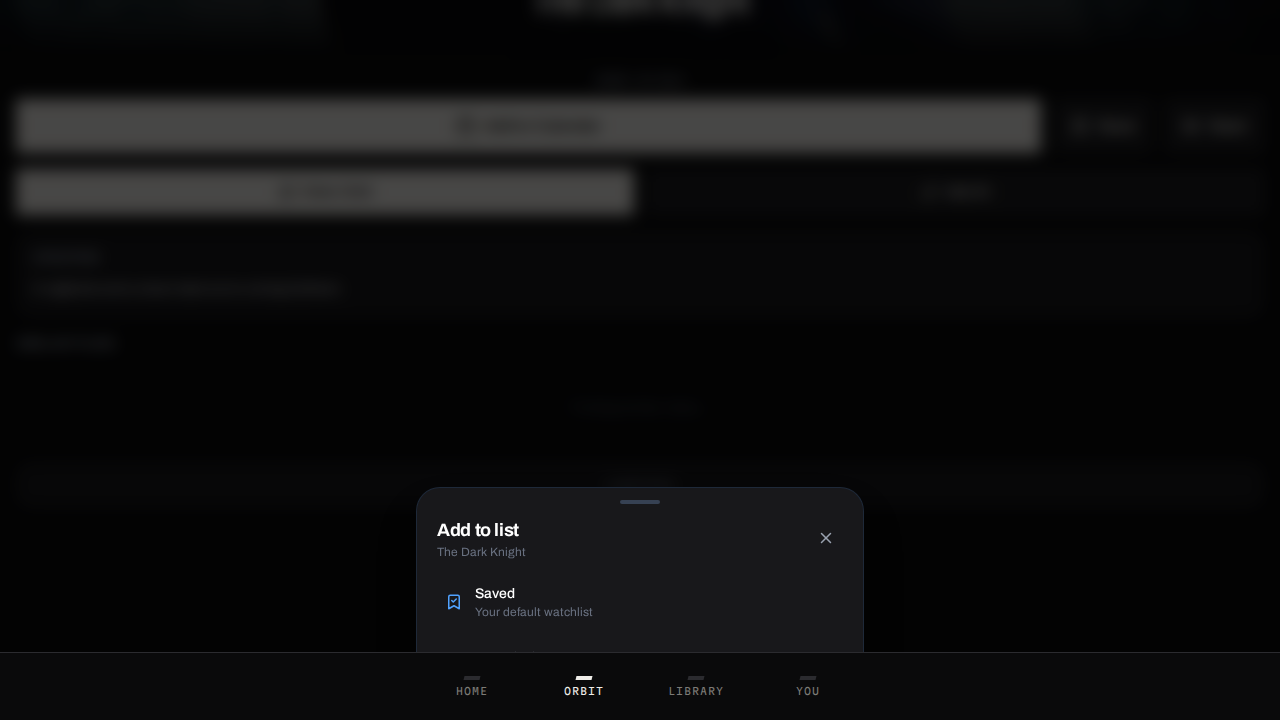
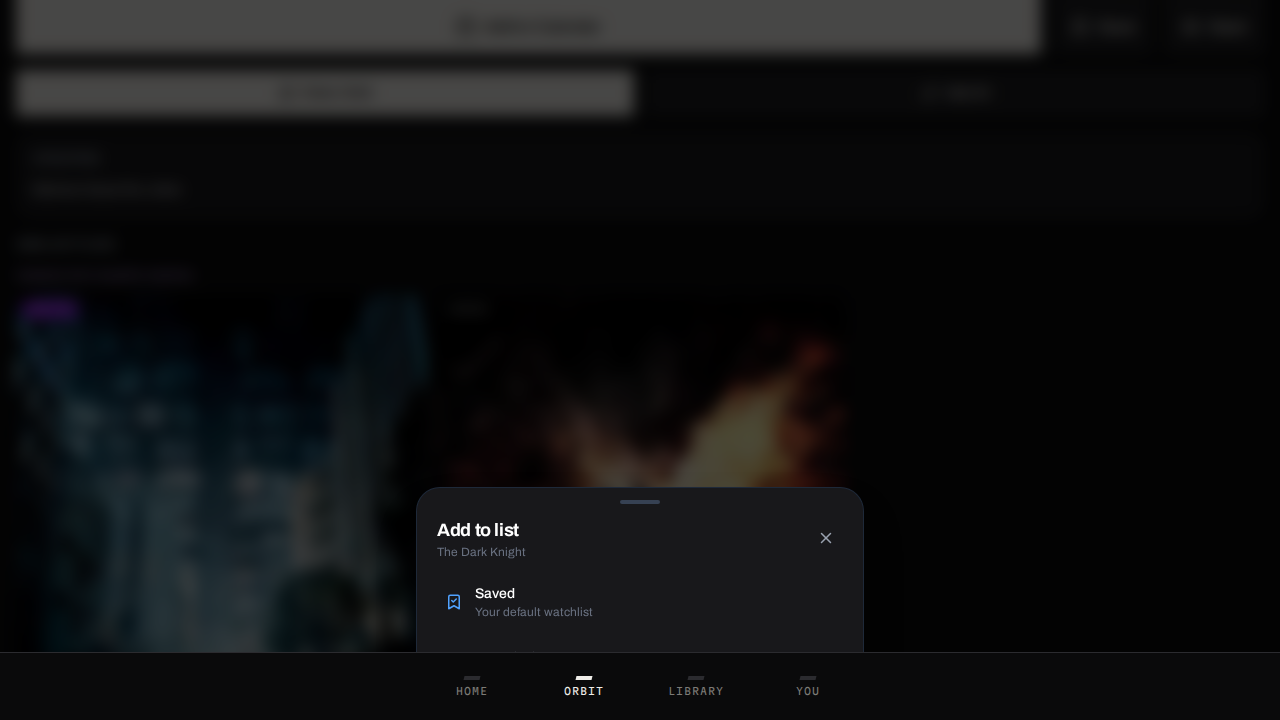
fix(similar): serve scholar adjacency from movie-lookup
A new api/similar-adjacency file exceeded the Hobby 12-function cap. POST /api/movie-lookup now returns cinephile neighbors.

diff --git a/api/movie-lookup.ts b/api/movie-lookup.ts
@@ -1,4 +1,8 @@
 import type { VercelRequest, VercelResponse } from '@vercel/node';
+import { callXai, extractJSON } from './_lib/xai.js';
+import { parseNeighbors } from '../src/lib/similar/parseNeighbors.js';
+import { parseSimilarAdjacencyRequest } from '../src/lib/similar/parseRequest.js';
+import type { FilmNeighbor } from '../src/lib/similar/types.js';
 
 const TMDB_BASE = 'https://api.themoviedb.org/3';
 
@@ -7,16 +11,95 @@ function tmdbImage(path: string | undefined, size: 'w500' | 'w780') {
   return `https://image.tmdb.org/t/p/${size}${path}`;
 }
 
-export default async function handler(req: VercelRequest, res: VercelResponse) {
-  res.setHeader('Access-Control-Allow-Origin', '*');
-  res.setHeader('Access-Control-Allow-Methods', 'GET, OPTIONS');
-  if (req.method === 'OPTIONS') return res.status(200).end();
-  if (req.method !== 'GET') return res.status(405).json({ error: 'Method not allowed' });
+function tmdbKey(): string {
+  return process.env.TMDB_API_KEY || process.env.VITE_TMDB_API_KEY || '';
+}
 
+async function tmdbMovie(id: number, key: string): Promise<{ poster_path?: string | null; title?: string; release_date?: string } | null> {
+  const res = await fetch(`${TMDB_BASE}/movie/${id}?api_key=${key}&language=en-US`);
+  if (!res.ok) return null;
+  return res.json();
+}
+
+async function tmdbSearch(title: string, year: string, key: string): Promise<number | null> {
+  const url = new URL(`${TMDB_BASE}/search/movie`);
+  url.searchParams.set('api_key', key);
+  url.searchParams.set('query', title);
+  if (year) url.searchParams.set('year', year);
+  const res = await fetch(url.toString());
+  if (!res.ok) return null;
+  const data = await res.json();
+  const id = data.results?.[0]?.id;
+  return typeof id === 'number' ? id : null;
+}
+
+async function hydrateNeighbors(
+  neighbors: FilmNeighbor[],
+  key: string,
+  excludeId: number,
+): Promise<FilmNeighbor[]> {
+  const out: FilmNeighbor[] = [];
+  const seen = new Set<number>([excludeId]);
+  for (const row of neighbors) {
+    let movieId = row.movieId;
+    if (!movieId && row.title && key) {
+      movieId = (await tmdbSearch(row.title, row.year, key)) ?? 0;
+    }
+    if (!movieId || seen.has(movieId)) continue;
+    seen.add(movieId);
+    let posterPath = row.posterPath;
+    let title = row.title;
+    let year = row.year;
+    if (key && (!posterPath || !title)) {
+      const details = await tmdbMovie(movieId, key);
+      if (details) {
+        posterPath = posterPath || details.poster_path || null;
+        title = title || details.title || title;
+        year = year || details.release_date?.slice(0, 4) || year;
+      }
+    }
+    out.push({ ...row, movieId, title, year, posterPath, source: 'scholar' });
+  }
+  return out;
+}
+
+async function handleAdjacency(req: VercelRequest, res: VercelResponse) {
+  const request = parseSimilarAdjacencyRequest(req.body);
+  if (!request) return res.status(400).json({ error: 'movieId and title are required', neighbors: [] });
+  try {
+    const text = await callXai({
+      system:
+        'You are a film scholar. Recommend films with deep craft connections. Output JSON only. Never invent TMDB ids. If you are unsure of an id, omit movieId.',
+      maxTokens: 900,
+      reasoningEffort: 'low',
+      messages: [
+        {
+          role: 'user',
+          content: `Recommend 16 films adjacent to "${request.title}" (${request.year}). Genres: ${request.genres.join(', ') || 'unknown'}. TMDB id of the reference: ${request.movieId}.
+
+Do not include the reference film.
+Each item needs title, year, movieId (TMDB), reason (film-to-film, under 12 words), axes (subset of story, visual, mood).
+
+Return ONLY JSON:
+{"neighbors":[{"movieId":27205,"title":"Inception","year":"2010","reason":"Nested heist architecture","axes":["story"]}]}`,
+        },
+      ],
+    });
+    const raw = parseNeighbors(extractJSON(text) ?? text);
+    const neighbors = await hydrateNeighbors(raw, tmdbKey(), request.movieId);
+    return res.status(200).json({ neighbors, source: 'grok' });
+  } catch (err: unknown) {
+    const message = err instanceof Error ? err.message : 'adjacency failed';
+    console.error('similar-adjacency failed:', err);
+    return res.status(500).json({ error: message, neighbors: [] });
+  }
+}
+
+async function handleLookup(req: VercelRequest, res: VercelResponse) {
   const title = String(req.query.title || '').trim();
   const year = String(req.query.year || '').trim();
   const id = Number(req.query.id);
-  const key = process.env.TMDB_API_KEY || process.env.VITE_TMDB_API_KEY;
+  const key = tmdbKey();
   if (!key || key.includes('your_tmdb')) {
     return res.status(400).json({ error: 'unavailable' });
   }
@@ -92,4 +175,14 @@ export default async function handler(req: VercelRequest, res: VercelResponse) {
   } catch {
     return res.status(500).json({ error: 'failed' });
   }
+}
+
+export default async function handler(req: VercelRequest, res: VercelResponse) {
+  res.setHeader('Access-Control-Allow-Origin', '*');
+  res.setHeader('Access-Control-Allow-Methods', 'GET, POST, OPTIONS');
+  res.setHeader('Access-Control-Allow-Headers', 'Content-Type');
+  if (req.method === 'OPTIONS') return res.status(200).end();
+  if (req.method === 'POST') return handleAdjacency(req, res);
+  if (req.method === 'GET') return handleLookup(req, res);
+  return res.status(405).json({ error: 'Method not allowed' });
 }

diff --git a/src/lib/similar/parseRequest.ts b/src/lib/similar/parseRequest.ts
@@ -1,0 +1,19 @@
+export type SimilarAdjacencyRequest = {
+  movieId: number;
+  title: string;
+  year: string;
+  genres: string[];
+};
+
+export function parseSimilarAdjacencyRequest(body: unknown): SimilarAdjacencyRequest | null {
+  if (!body || typeof body !== 'object') return null;
+  const row = body as Record<string, unknown>;
+  const movieId = Number(row.movieId ?? row.id);
+  const title = typeof row.title === 'string' ? row.title.trim() : '';
+  if (!Number.isFinite(movieId) || movieId <= 0 || !title) return null;
+  const year = typeof row.year === 'string' || typeof row.year === 'number' ? String(row.year) : '';
+  const genres = Array.isArray(row.genres)
+    ? row.genres.filter((g): g is string => typeof g === 'string' && g.trim().length > 0)
+    : [];
+  return { movieId, title, year, genres };
+}

diff --git a/e2e/flows.spec.ts b/e2e/flows.spec.ts
@@ -243,7 +243,8 @@ test('F12 Share', async ({ page }, testInfo) => {
 test('F13 Movie detail chrome', async ({ page }, testInfo) => {
   const logs = await attachPageLog(page);
   await ensureAuthed(page);
-  await page.route('**/api/similar-adjacency', async (route) => {
+  await page.route('**/api/movie-lookup', async (route) => {
+    if (route.request().method() !== 'POST') return route.continue();
     await new Promise((r) => setTimeout(r, 500));
     await route.fulfill({
       status: 200,

diff --git a/src/lib/similar/prefetch.ts b/src/lib/similar/prefetch.ts
@@ -8,7 +8,7 @@ export async function fetchScholarNeighbors(input: {
   year: string;
   genres?: string[];
 }): Promise<FilmNeighbor[]> {
-  const res = await fetch('/api/similar-adjacency', {
+  const res = await fetch('/api/movie-lookup', {
     method: 'POST',
     headers: { 'Content-Type': 'application/json' },
     body: JSON.stringify({

diff --git a/src/lib/similar/parseRequest.test.ts b/src/lib/similar/parseRequest.test.ts
@@ -1,5 +1,5 @@
 import { describe, expect, it } from 'vitest';
-import { parseSimilarAdjacencyRequest } from '../similar-adjacency';
+import { parseSimilarAdjacencyRequest } from './parseRequest';
 
 describe('parseSimilarAdjacencyRequest', () => {
   it('requires a movie id and title', () => {
